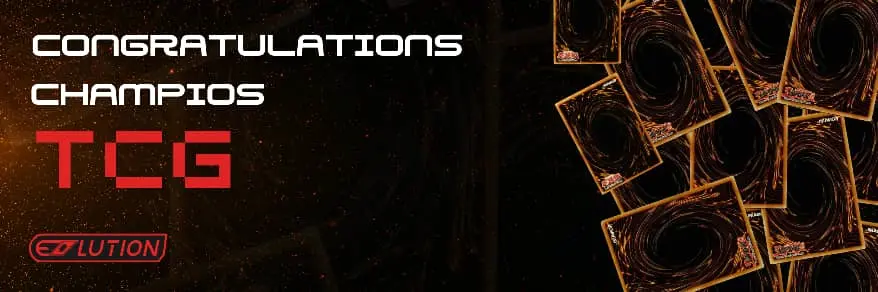
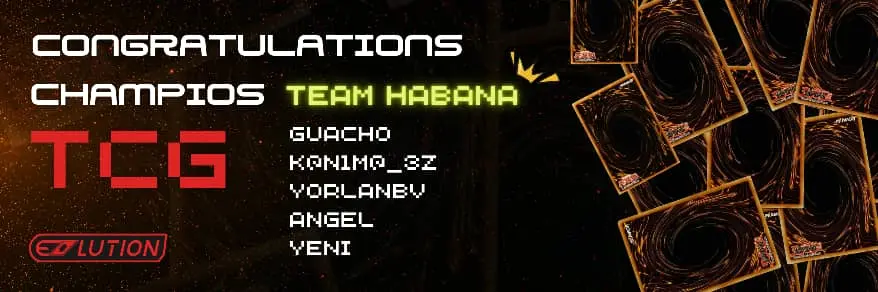
feat: Add user achievements

diff --git a/src/components/News.tsx b/src/components/News.tsx
@@ -1,6 +1,5 @@
 import { Pagination, A11y, Autoplay } from 'swiper/modules';
 import { Swiper, SwiperSlide } from 'swiper/react';
-import { toast } from 'sonner';
 import Banner from './Banner.tsx';
 import type { News } from '@types';
 // Import Swiper styles
@@ -16,53 +15,17 @@ const news: News[] = [
 		title: 'Season 4 is here!',
 		description: 'Evolution version 3.0.0 is now available!',
 		buttonText: 'More details',
-		buttonLink: '/store',
+		buttonLink: '/',
 	},
 	{
 		id: 2,
 		image: '/banners/banner2.webp',
 		title: 'TCG Champions 2024',
-		description: 'This is an example of a news item.',
+		description: 'TEAM HABANA is the new champion!',
 		buttonText: 'More details',
-		buttonLink: '/store',
-	},
-	{
-		id: 3,
-		image: '/banners/banner1.webp',
-		title: 'Official daisyUI',
-		description: 'This is an example of a news item.',
-		buttonText: 'More details',
-		buttonLink: '/store',
-	},
-	{
-		id: 4,
-		image: '/banners/banner2.webp',
-		title: 'Official daisyUI 2',
-		description: 'This is an example of a news item.',
-		buttonText: 'More details',
-		buttonLink: '/store',
-	},
-	{
-		id: 5,
-		image: '/banners/banner1.webp',
-		title: 'Evolution New 3',
-		description: 'This is an example of a news item.',
-		buttonText: 'More details',
-		buttonLink: '/store',
-	},
-	{
-		id: 6,
-		image: '/banners/banner2.webp',
-		title: 'Evolution New 4',
-		description: 'This is an example of a news item.',
-		buttonText: 'More details',
-		buttonLink: '/store',
+		buttonLink: '/',
 	}
 ];
-
-const handleToast = () => {
-	toast.success('Hello, world!')
-}
 
 export default () => {
 	return (
@@ -90,9 +53,6 @@ export default () => {
 							buttonText={newsItem.buttonText}
 							buttonLink={newsItem.buttonLink}
 						/>
-						{/* <div className='h-auto w-full bg-base-200 flex justify-center items-center' onClick={handleToast}>
-							<img src={slide.image} alt={`Slide ${slide.id}`} className='cursor-pointer w-full aspect-[3/1] md:aspect-[4/1] object-cover'/>
-						</div> */}
 					</SwiperSlide>
 				))}
 			</Swiper>

diff --git a/src/components/Banner.tsx b/src/components/Banner.tsx
@@ -30,11 +30,11 @@ export default ({ image, title, description, buttonText, buttonLink }: BannerPro
 				</h2>
 				<div className="grow">
 					<h2 className="card-title text-sm font-light sm:w-[250%] sm:text-lg md:text-lg lg:text-lg xl:text-xl">
-						<svg className="inline h-4 w-4 md:h-6 md:w-6" width="32" height="32" viewBox="0 0 415 415" xmlns="http://www.w3.org/2000/svg">
+						{/* <svg className="inline h-4 w-4 md:h-6 md:w-6" width="32" height="32" viewBox="0 0 415 415" xmlns="http://www.w3.org/2000/svg">
 							<rect x="82.5" y="290" width="250" height="125" rx="62.5" fill="#1AD1A5"></rect>
 							<circle cx="207.5" cy="135" r="125" fill="white"></circle>
 							<circle cx="207.5" cy="135" r="56" fill="#FF9903"></circle>
-						</svg>
+						</svg> */}
 						{description}
 					</h2>
 				</div>

diff --git a/src/types/index.d.ts b/src/types/index.d.ts
@@ -8,6 +8,8 @@ import type { GameClient } from './GameClient';
 import type { Faq } from './Faqs';
 import type { Feature } from './Features';
 import type { User } from './User';
+import type { Achievement } from './Achievement';
+
 export type { 
 	News, 
 	Session, 
@@ -18,5 +20,6 @@ export type {
 	GameClient,
 	Faq,
 	Feature,
-	User
+	User,
+	Achievement
 };

diff --git a/src/types/Achievement.d.ts b/src/types/Achievement.d.ts
@@ -1,0 +1,10 @@
+export type Achievement = {
+	id: string;
+	icon: string;
+	name: string;
+	labels: string[];
+	unlockedAt: Date;
+	description: string;
+	earnedPoints: number;
+	color?: string;
+};

diff --git a/src/types/Match.d.ts b/src/types/Match.d.ts
@@ -9,4 +9,5 @@ export type Match = {
 	points: number;
 	winner: boolean;
 	date: string;
+	season: number;
 }
